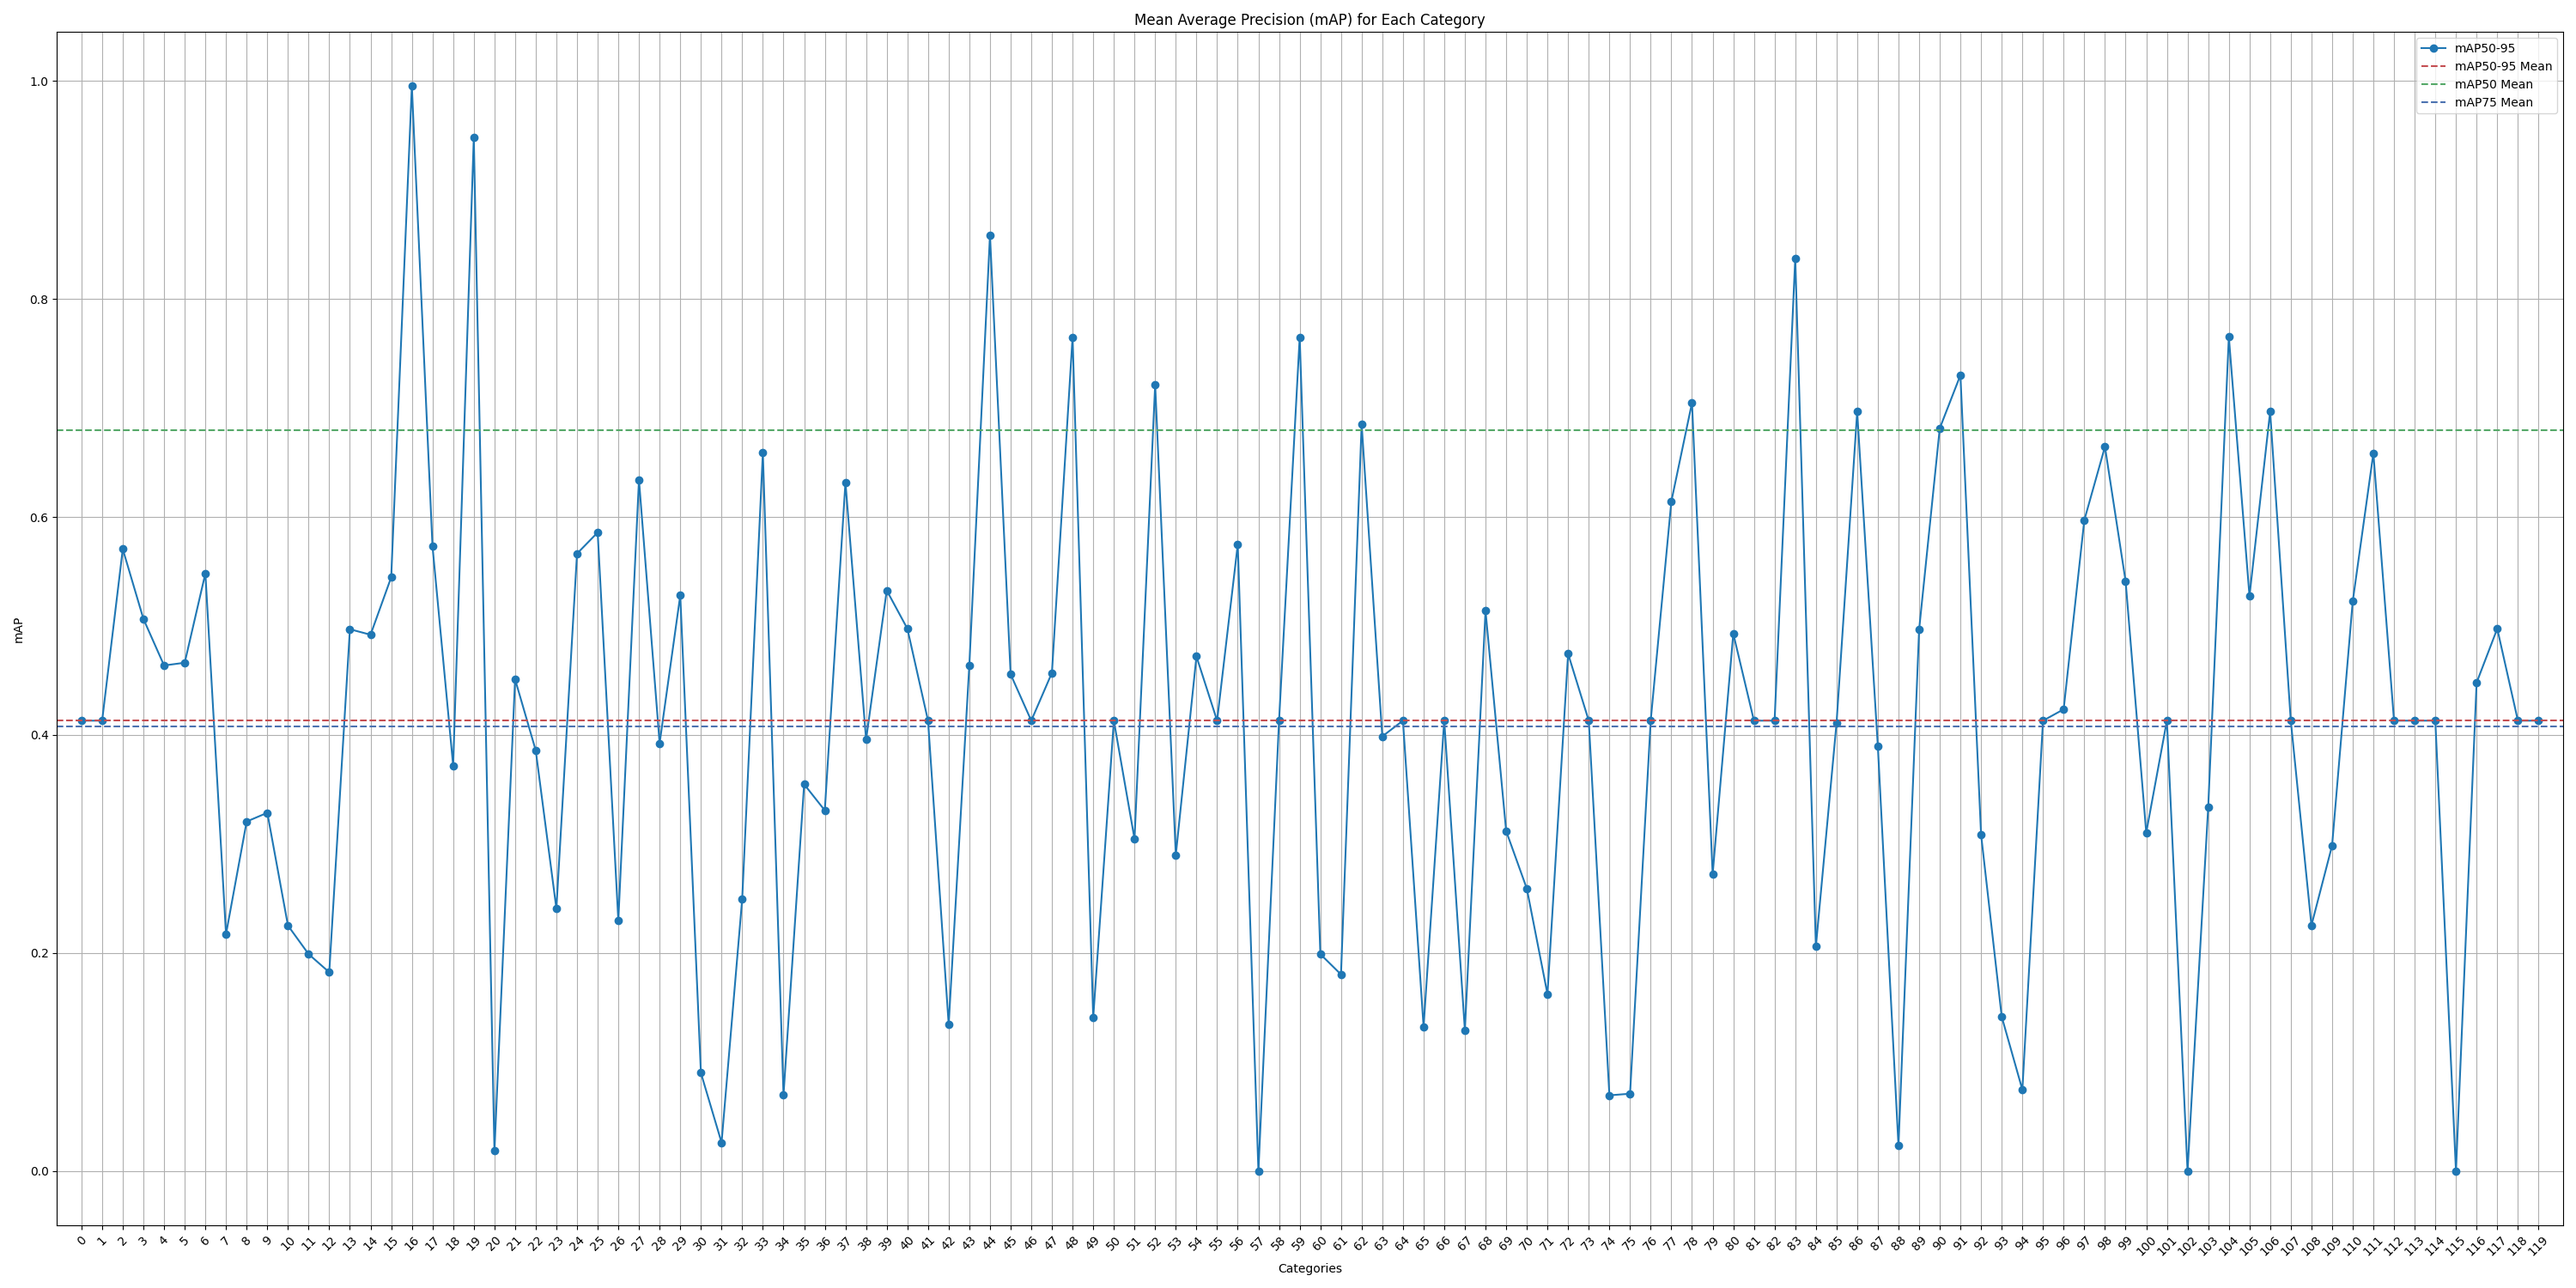
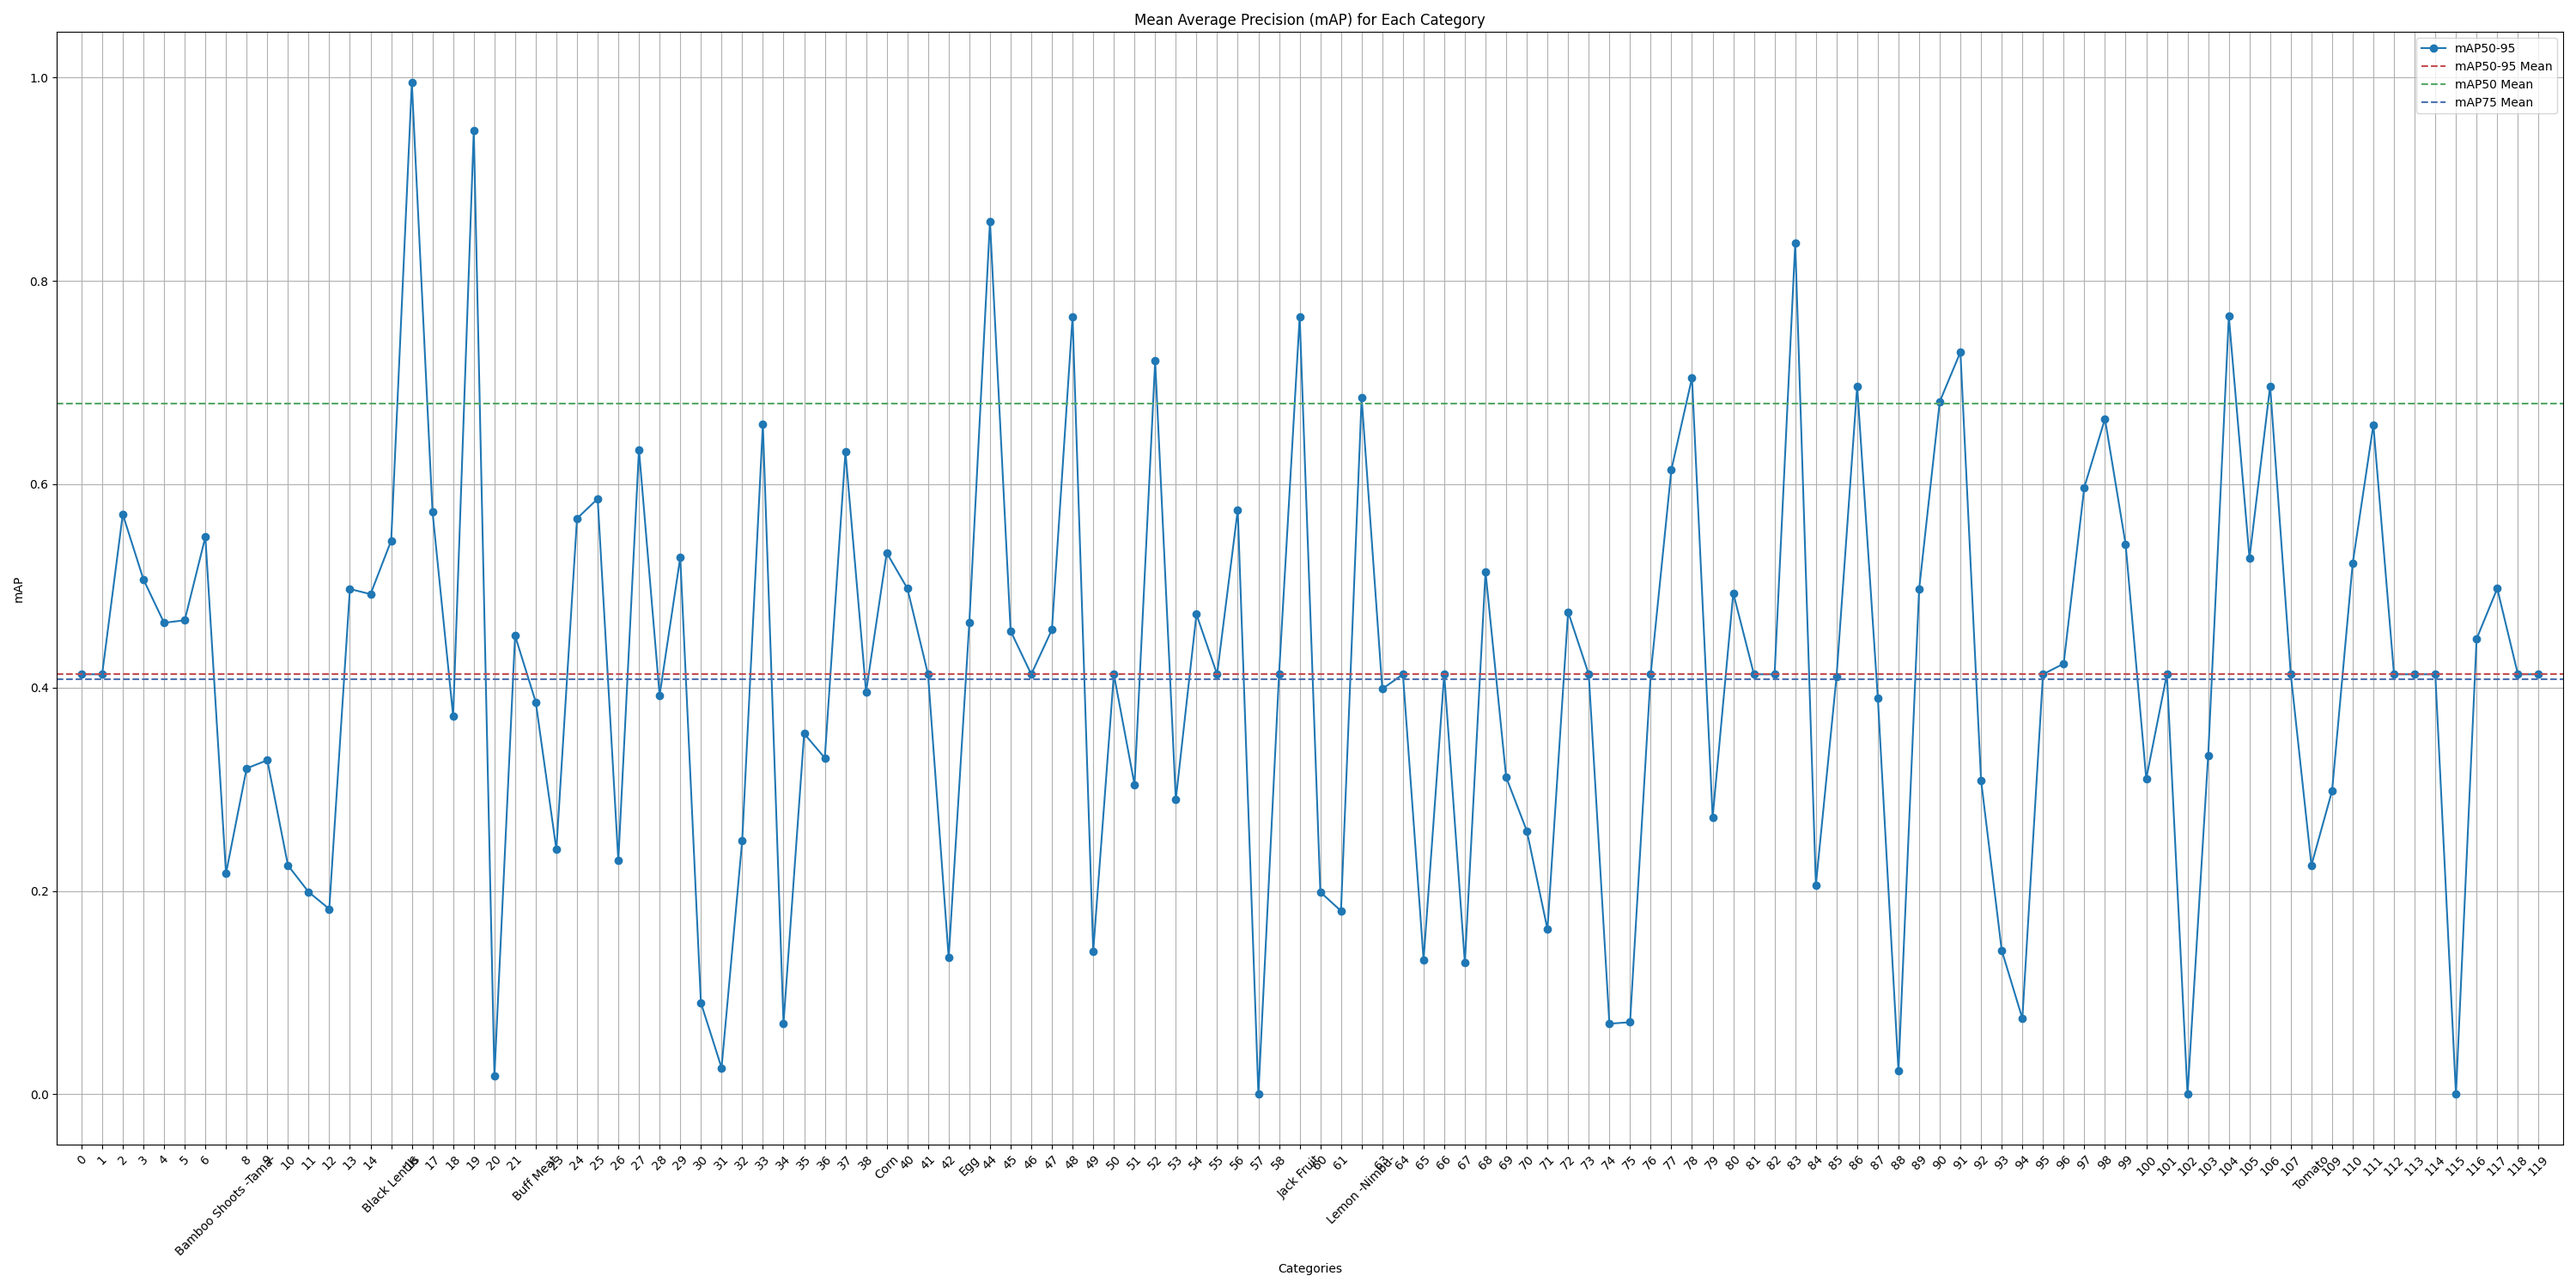
fix mAP plot

diff --git a/ml_service/validations/food_detect/food_detect.py b/ml_service/validations/food_detect/food_detect.py
@@ -3,6 +3,13 @@ import matplotlib.pyplot as plt
 # Load a model
 model = YOLO("./models/food_detect/train/weights/best.pt")
 output_path = "./metrics/food_detect"
+names = ['Akabare Khursani', 'Apple', 'Artichoke', 'Ash Gourd -Kubhindo-', 'Asparagus -Kurilo-', 'Avocado', 'Bacon', 'Bamboo Shoots -Tama-', 'Banana', 'Beans', 'Beaten Rice -Chiura-', 'Beef', 'Beetroot', 'Bethu ko Saag', 'Bitter Gourd', 'Black Lentils', 'Black beans', 'Bottle Gourd -Lauka-', 'Bread', 'Brinjal', 'Broad Beans -Bakullo-', 'Broccoli', 'Buff Meat', 'Butter', 'Cabbage', 'Capsicum', 'Carrot', 'Cassava -Ghar Tarul-', 'Cauliflower', 'Chayote-iskus-', 'Cheese', 'Chicken', 'Chicken Gizzards', 'Chickpeas', 'Chili Pepper -Khursani-', 'Chili Powder', 'Chowmein Noodles', 'Cinnamon', 'Coriander -Dhaniya-', 'Corn', 'Cornflakec', 'Crab Meat', 'Cucumber', 'Egg', 'Farsi ko Munta', 'Fiddlehead Ferns -Niguro-', 'Fish', 'Garden Peas', 'Garden cress-Chamsur ko saag-', 'Garlic', 'Ginger', 'Green Brinjal', 'Green Lentils', 'Green Mint -Pudina-', 'Green Peas', 'Green Soyabean -Hariyo Bhatmas-', 'Gundruk', 'Ham', 'Ice', 'Jack Fruit', 'Ketchup', 'Lapsi -Nepali Hog Plum-', 'Lemon -Nimbu-', 'Lime -Kagati-', 'Long Beans -Bodi-', 'Masyaura', 'Milk', 'Minced Meat', 'Moringa Leaves -Sajyun ko Munta-', 'Mushroom', 'Mutton', 'Nutrela -Soya Chunks-', 'Okra -Bhindi-', 'Olive Oil', 'Onion', 'Onion Leaves', 'Orange', 'Palak -Indian Spinach-', 'Palungo -Nepali Spinach-', 'Paneer', 'Papaya', 'Pea', 'Pear', 'Pointed Gourd -Chuche Karela-', 'Pork', 'Potato', 'Pumpkin -Farsi-', 'Radish', 'Rahar ko Daal', 'Rayo ko Saag', 'Red Beans', 'Red Lentils', 'Rice -Chamal-', 'Sajjyun -Moringa Drumsticks-', 'Salt', 'Sausage', 'Snake Gourd -Chichindo-', 'Soy Sauce', 'Soyabean -Bhatmas-', 'Sponge Gourd -Ghiraula-', 'Stinging Nettle -Sisnu-', 'Strawberry', 'Sugar', 'Sweet Potato -Suthuni-', 'Taro Leaves -Karkalo-', 'Taro Root-Pidalu-', 'Thukpa Noodles', 'Tofu', 'Tomato', 'Tori ko Saag', 'Tree Tomato -Rukh Tamatar-', 'Turnip', 'Wallnut', 'Water Melon', 'Wheat', 'Yellow Lentils', 'kimchi', 'mayonnaise', 'noodle', 'seaweed']
+# Items to find
+items_to_find = ['Egg', 'Corn', 'Tomato', 'Black Lentils', 'Bamboo Shoots -Tama-', 'Buff Meat', 'Jack Fruit', 'Lemon -Nimbu-']
+
+# Finding indices
+indices = {item: names.index(item) for item in items_to_find}
+
 def main():
     metrics = model.val(plots=True,split="test",project=output_path)
     # Extract mAP values
@@ -11,7 +18,7 @@ def main():
     map75 = metrics.box.map75
     maps = metrics.box.maps
     # Plot the mAP values
-    categories = [f"{i}" for i in range(len(maps))]
+    categories = [names[i] if i in indices.values() else i for i in range(len(maps))]   
     
     plt.figure(figsize=(30, 15))
     # Plot mAP50-95
